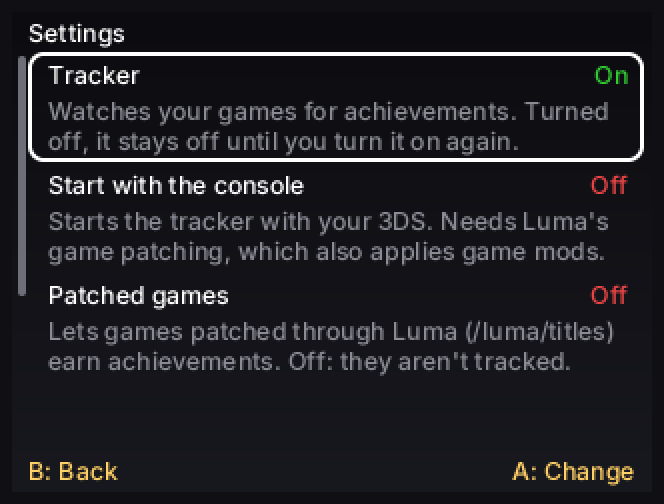
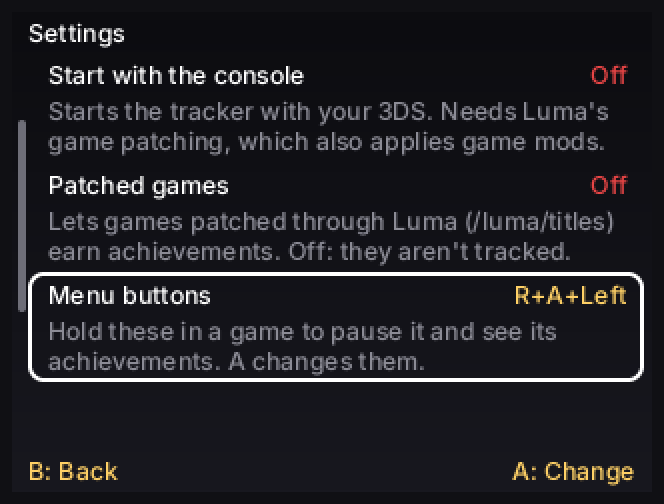
updated readme and screenshots

Changed region(s): [[0.0301, 0.4167, 0.994, 0.7738], [0.0301, 0.0893, 0.994, 0.3274], [0.0602, 0.3571, 0.4819, 0.3869]]

diff --git a/README.md b/README.md
@@ -8,12 +8,12 @@ Questions, bug reports and news: join the [Discord server](https://discord.gg/MW
 
 | Choosing a game | Its achievements (A) |
 |---|---|
-| <img src="assets/screenshots/app.png" alt="The app with Ocarina of Time 3D chosen in the row of games, the store's tile at the end of the row, and on the bottom screen its progress: 21 of 97 achievements, 105 of 690 points, the three latest unlocks and totals for all games" width="400"> | <img src="assets/screenshots/achievements.png" alt="Ocarina of Time 3D opened: 21 of 97 unlocked and 105 of 690 points along the top of the bottom screen, then its achievements, unlocked ones in green with a gold Triforce, the first one selected" width="400"> |
+| <img src="assets/screenshots/app.png" alt="The app with Mario Kart 7 chosen in the row of games over the game's art, next to Ocarina of Time 3D and the store's tile at the end of the row, and on the bottom screen its progress: 19 of 105 achievements, 107 of 814 points, the three latest unlocks with their pictures, and totals for all games" width="400"> | <img src="assets/screenshots/achievements.png" alt="Mario Kart 7 opened: 19 of 105 unlocked and 107 of 814 points along the top of the bottom screen, then its achievements with their pictures: the 50cc Mushroom and Flower Cups unlocked in green, the Star Cup locked in grey, the first one selected" width="400"> |
 
 ## Supported games
 
 - **The Legend of Zelda: Ocarina of Time 3D** (USA, EUR, JPN): 97 achievements, 690 points. A port of the RetroAchievements set for the N64 original. Many of its conditions were tested with recordings and simulated play rather than a full playthrough, so some may need fixes.
-- **Mario Kart 7** (USA, EUR, JPN): 105 achievements, 814 points, each with its own picture. Every cup in every class, three-star rankings, characters and kart parts, all 32 Expert Staff Ghosts, battle tours won course by course, and challenges in races like winning without being hit or picking up an item. It needs the game's free 1.2 update: on an older version the start banner says so and achievements stay off. They're also off while the CTGP-7 plugin runs, since it keeps its own save.
+- **Mario Kart 7** (USA, EUR, JPN): 105 achievements, 814 points, each with its own picture. Every cup in every class including Mirror, three-star rankings, characters and kart parts, coin totals, all 32 Expert Staff Ghosts, Balloon Battle and Coin Runners won on every battle course, and challenges in races like winning without spinning out, without picking up an item, or from 8th place on the final lap. It needs the game's free 1.2 update: on an older version the start banner says so and achievements stay off. They're also off while the CTGP-7 plugin runs, since it keeps its own save.
 
 Each game's versions share one achievement list and your progress.
 
@@ -37,7 +37,7 @@ Since version 1.4.0, the app updates itself. When a new release is out, it offer
 | B | Go back |
 | Up / Down | Select an achievement (the list scrolls to keep it on screen) |
 | Drag the touch screen | Scroll achievements |
-| A, or tap an achievement | Show it in full: the whole name and description (B or a tap goes back, Up/Down show the next ones) |
+| A, or tap an achievement | Show it in full: the whole name and description, and for one done in parts, which parts are done (B or a tap goes back, Up/Down show the next ones) |
 | L / R | Jump a page |
 | X | Settings: the tracker, starting it with the console, patched games, the in-game menu buttons and the theme |
 | Y | Share the open game's progress (A saves the image to the SD card, B goes back) |
@@ -46,7 +46,7 @@ Since version 1.4.0, the app updates itself. When a new release is out, it offer
 
 The prompts in the bottom corners of the touch screen, like **B: Back** and **A: Open**, can be tapped too. While you choose a game, the bottom screen shows how far you are in it: achievements, points, your three latest unlocks, and totals for all your games.
 
-<img src="assets/screenshots/details-app.png" alt="One achievement in full: Twins of Evil, locked, 10 points, 85 of 97, with its whole name and its long description, and B: Back in the corner" width="400">
+<img src="assets/screenshots/details-app.png" alt="One achievement in full: Pop Tour, locked, 10 points, 103 of 105, with its description and its parts: 3 of 6 battle courses won, the done ones in green, and B: Back in the corner" width="400">
 
 In a game, press **R + A + Left** to pause and see your achievements (you can pick other buttons in the settings, under **Menu buttons**). It works like the app's list: Up/Down select an achievement, L/R (or Left/Right) jump a page, and A or a tap shows the selected one in full (B or a tap goes back). B or SELECT closes the list.
 
@@ -54,7 +54,7 @@ In a game, press **R + A + Left** to pause and see your achievements (you can pi
 
 | The share screen (Y) | The image you get |
 |---|---|
-| <img src="assets/screenshots/share.png" alt="The share screen: the image on the top screen, and on the bottom a QR code to scan with a phone, the link it opens, and A: Save to SD, B: Back" width="400"> | <img src="assets/screenshots/share-image.png" alt="The shared image: 3DS Achievements, the Ocarina of Time 3D icon in a gold frame over the game's art, its name, and a progress bar with 21/97" width="400"> |
+| <img src="assets/screenshots/share.png" alt="The share screen: the image on the top screen, and on the bottom a QR code to scan with a phone, the link it opens, and A: Save to SD, B: Back" width="400"> | <img src="assets/screenshots/share-image.png" alt="The shared image: 3DS Achievements, the Mario Kart 7 icon in a gold frame over the game's art, its name, and a progress bar with 19/105" width="400"> |
 
 When you open the app on Wi-Fi, it checks this repository's `main` branch and asks before downloading new games, achievements or things for the store.
 
@@ -62,11 +62,15 @@ Patches and mods can change how a game behaves, so while Luma's game patching is
 
 ## Settings and themes
 
-Press X for the settings. **Tracker** turns the tracker on or off, **Patched games** is explained above, **Menu buttons** changes the buttons that open the list in a game (press A, then hold 2 to 4 buttons until the bar fills; B alone cancels). Buttons that Luma's Rosalina menu uses can't be chosen, and if the ones you hold could get in the way while playing, such as only 2 buttons or L + R + Start, the app says why and asks before using them, and **Theme** opens the list of themes: pick one with A and the app changes at once. Two come with the app: **Modern**, shown on this page, and **3DS**, which looks like the console's own System Settings and uses its system font. More are in the store.
+Press X for the settings. **Tracker** turns the tracker on or off, **Start with the console** is explained below and **Patched games** above.
+
+**Menu buttons** changes the buttons that open the list in a game: press A, then hold 2 to 4 buttons until the bar fills (B alone cancels). Buttons that Luma's Rosalina menu uses can't be chosen, and if the ones you hold could get in the way while playing, such as only 2 buttons or L + R + Start, the app says why and asks before using them.
+
+**Theme** opens the list of themes: pick one with A and the app changes at once. Two come with the app: **Modern**, shown on this page, and **3DS**, which looks like the console's own System Settings and uses its system font. More are in the store.
 
 | Settings (X) | Choosing a theme |
 |---|---|
-| <img src="assets/screenshots/settings.png" alt="The settings: Tracker on, Start with the console off and Patched games off, each with a line about what it does" width="400"> | <img src="assets/screenshots/themes.png" alt="The theme list: Modern, in use, and 3DS, each with a line about how it looks" width="400"> |
+| <img src="assets/screenshots/settings.png" alt="The settings: Start with the console off, Patched games off, and Menu buttons selected, set to R+A+Left, each with a line about what it does" width="400"> | <img src="assets/screenshots/themes.png" alt="The theme list: Modern, in use, and 3DS, each with a line about how it looks" width="400"> |
 
 **Start with the console** starts the tracker whenever you turn on your 3DS, so you don't have to open the app first. It needs Luma3DS 13.0 or newer with a second Luma option on, **Enable game patching** (hold SELECT while turning on your 3DS); the app tells you if it's off. Be careful with game mods: with game patching on, Luma also applies any mods in `/luma/titles`. A game with mods isn't tracked while **Patched games** is off, but with it on, a mod could unlock achievements you didn't earn. The app reminds you of this before turning the setting on.
 
